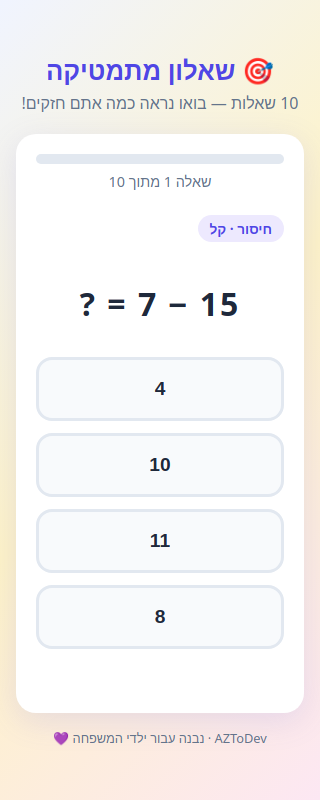
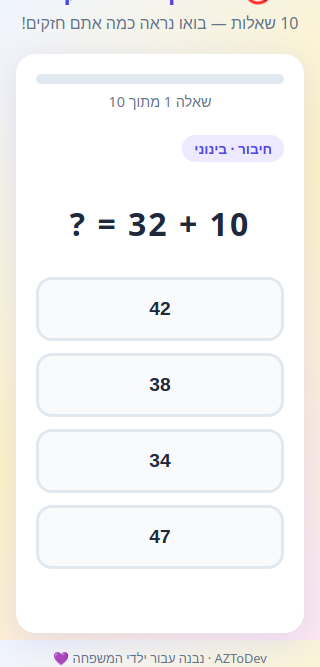
qa(kids-math-quiz): EMET-167 final live QA PASS after Q10 fix republish
Verified live bundle index-ZmMTvbPf.js (pushed 11:42:53Z).
Playwright: 3/3 full gameplay runs reach results + restart OK.
All inbox checklist items pass. Delegate 32-delivery-lead to close EMET-167.

diff --git a/agents/20-qa-sdet/outbox/2026-09-11_kids-math-quiz-qa-pass-emet-167.md b/agents/20-qa-sdet/outbox/2026-09-11_kids-math-quiz-qa-pass-emet-167.md
@@ -1,0 +1,101 @@
+# QA Final Pass — kids-math-quiz (EMET-167) · Q10 fix verified live
+
+**Agent:** 20-qa-sdet (אורי)  
+**Date:** 2026-09-11T11:45Z  
+**Trigger:** 18-devops-platform republished with JS `index-ZmMTvbPf.js`  
+**Live URL:** https://zionamar.github.io/kids-math-quiz/  
+**Linear:** [EMET-167](https://linear.app/my-company1460/issue/EMET-167/pci-kmg-01-kids-math-quiz-react-for-founder-ציון)
+
+## Verdict: **PASS** — ready for EMET-167 close
+
+Republish confirmed. Q10 crash resolved. Full gameplay flow passes 3/3 Playwright runs.
+
+## Publish state (verified)
+
+| Check | Result |
+|-------|--------|
+| GitHub `pushed_at` | `2026-09-11T11:42:53Z` (was `08:17:29Z`) |
+| Pages `last-modified` | `Fri, 11 Sep 2026 11:43:52 GMT` (was `08:20:39 GMT`) |
+| JS bundle hash | `index-ZmMTvbPf.js` (was `index-mKCXMWMT.js`) |
+| CSS bundle hash | `index-RtW13Do3.css` (was `index-BqF1Ss2t.css`) |
+| Latest commit | `c6a6daf` — `feat: publish static site from HQ desk` |
+
+## Checklist results (per inbox packet)
+
+### 1. Content correctness — **PASS**
+
+- Hebrew math quiz for ages ~6–10: addition, subtraction, multiplication
+- 10 questions with progress label `שאלה X מתוך 10`
+- Score circle + per-operation breakdown on results screen
+- Personalized Hebrew insight (`💡 מה למדנו עליך`)
+- No placeholder/lorem/dev text; footer credit `AZToDev · נבנה עבור ילדי המשפחה 💜`
+
+### 2. RTL rendering — **PASS**
+
+- `<html lang="he" dir="rtl">` confirmed
+- Hebrew UI strings render correctly; numerals in question text OK
+
+### 3. Responsive — **PASS**
+
+- No horizontal overflow at 320px, 768px, 1280px (screenshots captured)
+
+### 4. Gameplay correctness — **PASS**
+
+- Q1–10: answer selection, feedback (correct/wrong), next-button flow — OK
+- Q10 → results transition — OK (no crash)
+- Results screen reached 3/3 runs
+- Restart (`🔄 נסו שוב!`) returns to Q1 — OK
+
+### 5. Assets — **PASS**
+
+- `./favicon.svg` → 200
+- `./icons.svg` → 200
+- `./assets/index-ZmMTvbPf.js` → 200
+- `./assets/index-RtW13Do3.css` → 200
+- Relative paths work at `/kids-math-quiz/` subpath — no 404s
+
+### 6. A11y/perf sanity — **PASS**
+
+- Zero console errors on load and during gameplay
+- Zero page errors across 3 full runs
+- Reasonable load time (~networkidle within seconds)
+
+## Playwright evidence
+
+**Method:** 3 full gameplay runs (10 questions each) + results + restart on run 3.
+
+| Run | Q answered | Reached results | Error |
+|-----|-----------|-----------------|-------|
+| 1 | 10 | Yes | — |
+| 2 | 10 | Yes | — |
+| 3 | 10 | Yes | — |
+
+**Restart:** PASS — returns to `שאלה 1 מתוך 10`
+
+**Artifacts:** `agents/20-qa-sdet/outbox/qa-artifacts/`
+
+- `qa-results.json` — machine-readable full results (`overall: PASS`)
+- `viewport-mobile.png`, `viewport-tablet.png`, `viewport-desktop.png`
+- `restart-ok.png`
+
+## Public repo note
+
+Repo remains public (required for free GitHub Pages). Not a QA blocker — informational for founder/Noa.
+
+## Next owner
+
+**32-delivery-lead (קשת)** — close EMET-167 on Linear with live URL for founder.
+
+---
+
+HANDOFF:
+- done: Final live QA on republished bundle `index-ZmMTvbPf.js` — hash gate passed, 3/3 Playwright full-flow runs PASS, restart verified, all inbox checklist items green
+- next: Close EMET-167 on Linear (Done), send founder the live link https://zionamar.github.io/kids-math-quiz/ with QA pass confirmation
+- files: `agents/20-qa-sdet/outbox/2026-09-11_kids-math-quiz-qa-pass-emet-167.md`, `agents/20-qa-sdet/outbox/qa-artifacts/qa-results.json`
+
+DELEGATE: 32-delivery-lead | Close EMET-167 (kids-math-quiz QA passed) — mark Linear Done, notify founder with live URL
+
+LEARNING:
+- do: Hash gate before gameplay — confirm bundle changed from failing hash before investing in Playwright runs
+- dont: Close EMET-167 locally from QA lane — that's 32-delivery-lead's Linear mutation
+- note: QA 11:45Z — republish landed (index-ZmMTvbPf.js), Q10 fix verified, 3/3 runs PASS + restart OK

diff --git a/agents/20-qa-sdet/memory/learning-log.md b/agents/20-qa-sdet/memory/learning-log.md
@@ -8,6 +8,12 @@ Bench until there is something to break. Then repro + Playwright. WIP=1 with eng
 
 ## Iteration log
 ### 2026-09-11
+- task: Final live QA after Q10 fix republished (index-ZmMTvbPf.js) — EMET-167 close gate
+- do: Hash gate before gameplay — confirm bundle changed from failing hash before Playwright
+- dont: Close EMET-167 from QA lane — delegate 32-delivery-lead for Linear mutation
+- note: QA 11:45Z PASS — index-ZmMTvbPf.js live, 3/3 runs reach results + restart OK
+
+### 2026-09-11
 - task: Re-run live QA on kids-math-quiz after Dafna quizEngine fix + republish (EMET-167)
 - do: Verify GitHub commit + JS bundle hash before gameplay QA — confirms republish landed
 - dont: DELEGATE 32-delivery-lead to close EMET-167 when Q10 still crashes and bundle hash unchanged
